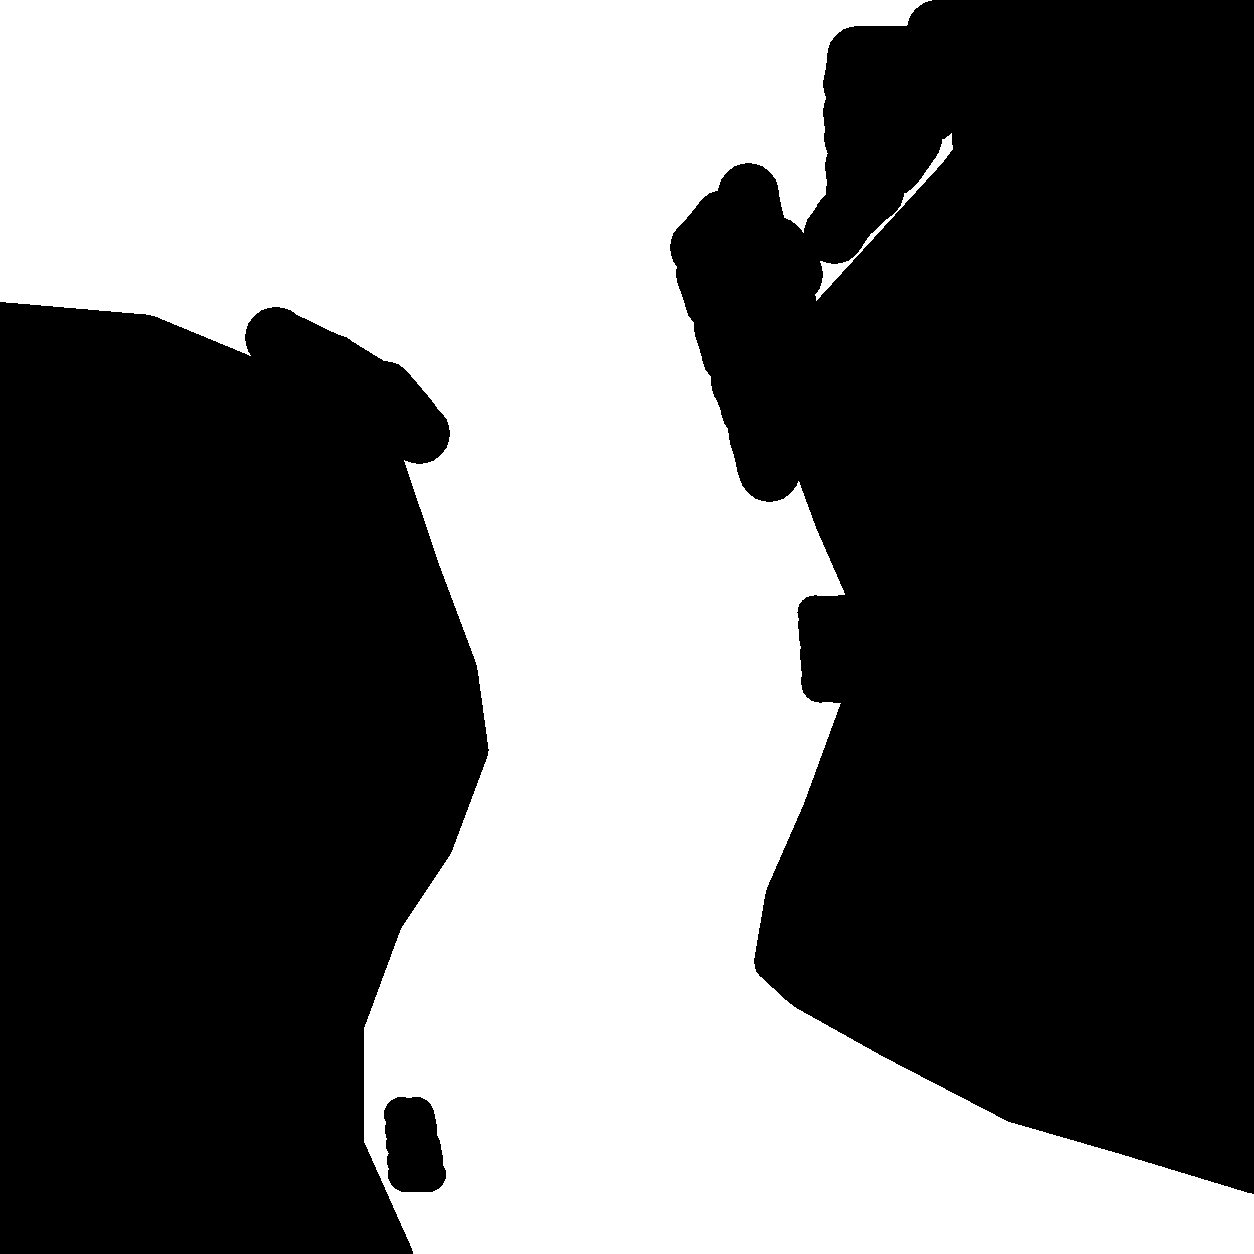
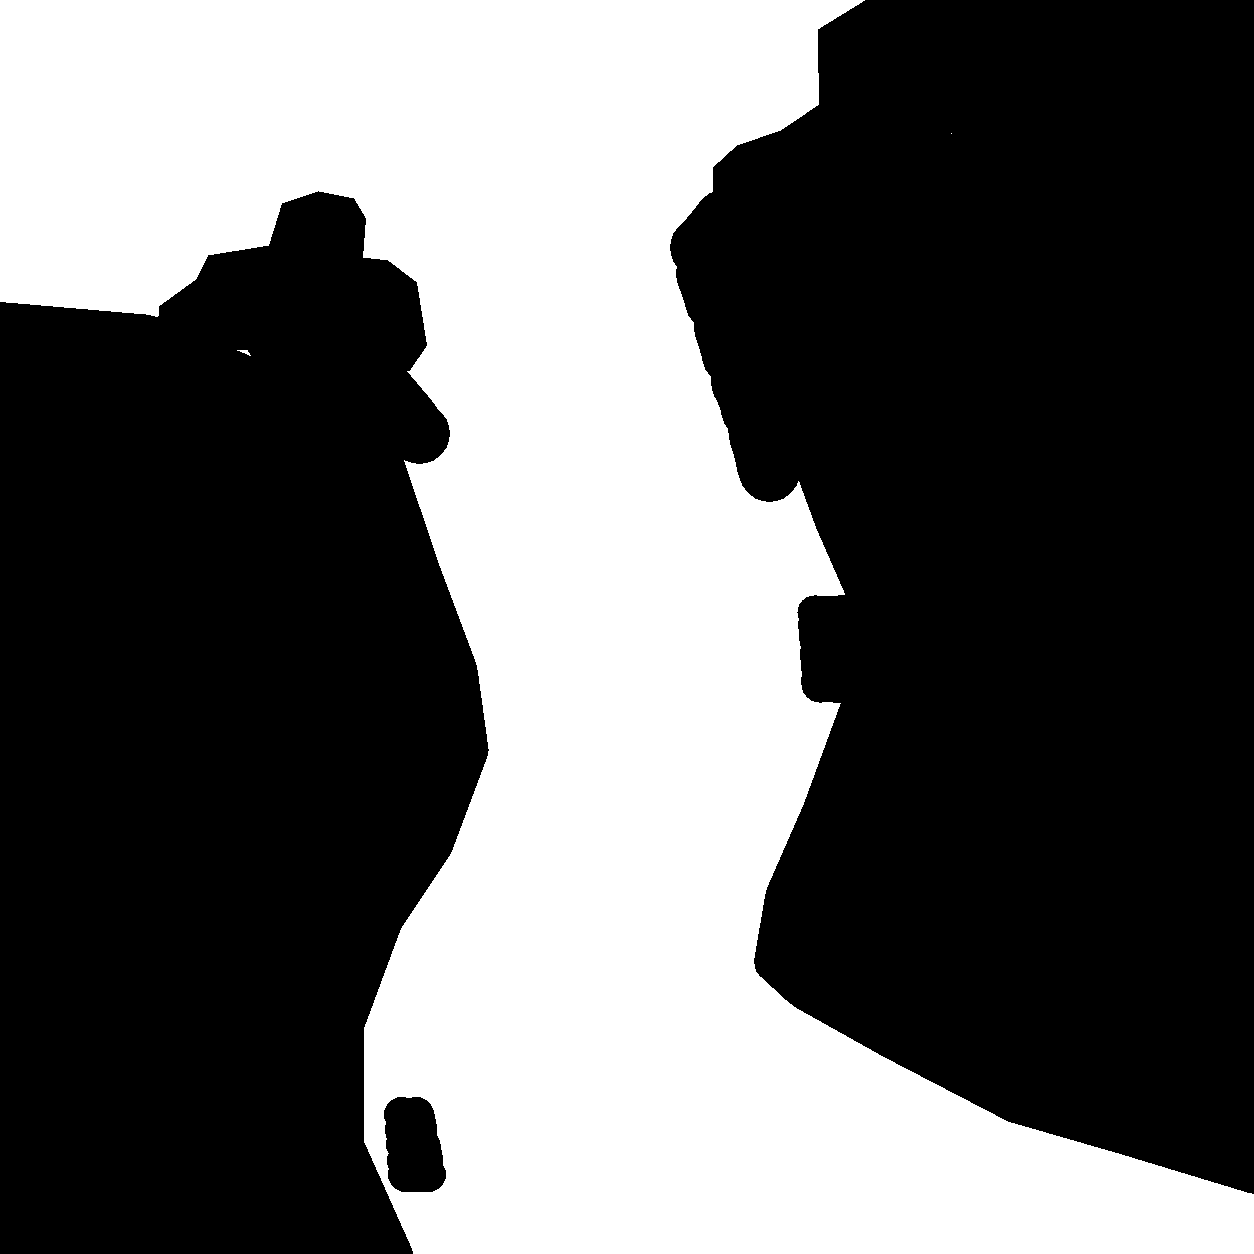
캠프 오솔길과 던전 계단의 이동 경계·소품 가림을 그림에 맞춤

diff --git a/core/src/test/java/com/yongsa/DungeonWalkabilityTest.java b/core/src/test/java/com/yongsa/DungeonWalkabilityTest.java
@@ -41,6 +41,42 @@ class DungeonWalkabilityTest {
         assertTrue(failures.isEmpty(),"Visible floor blocked: "+failures);
     }
 
+    @Test void paintedShouldersStayOpenAndStairFurnitureHasSolidFeet() {
+        var map=unlocked();
+        var hero=new com.yongsa.combat.HeroActor();
+        var trail=map.corridors.stream().filter(c->c.scene.id.equals("camp-trail")).findFirst().orElseThrow();
+        hero.x=trail.sceneX(210/480f);
+        hero.y=trail.sceneY(329/420f);
+        float startX=hero.x,startY=hero.y;
+        float shoulderX=trail.sceneX(100/480f),shoulderY=trail.sceneY(318/420f);
+        assertFalse(com.yongsa.combat.Physics.walk(map,hero,shoulderX-startX,shoulderY-startY,map.tileSize));
+        assertFalse(com.yongsa.combat.Physics.walk(map,hero,startX-hero.x,startY-hero.y,map.tileSize));
+        assertEquals(startX,hero.x,.03f);
+        assertEquals(startY,hero.y,.03f);
+
+        var mine=map.room("L7");
+        assertTrue(map.free(mine.sceneX(115/640f),mine.sceneY(149/360f),hero.hw,hero.hh),"Dirt by the winch");
+        var tower=map.room("T4");
+        assertTrue(map.free(tower.sceneX(145/640f),tower.sceneY(184/360f),hero.hw,hero.hh),"Gravel in front of ore tray");
+        assertFalse(map.free(tower.sceneX(142/640f),tower.sceneY(159/360f),hero.hw,hero.hh),"Ore tray base");
+
+        for(var joint:map.paintedJoints) {
+            switch(joint.id) {
+                case "exit-R1-R2", "exit-R3-R4", "entry-R5-R6" -> {
+                    assertTrue(map.free(joint.x(.50f),joint.y(.22f),hero.hw,hero.hh),joint.id+" stair");
+                    assertFalse(map.free(joint.x(167/512f),joint.y(137/512f),hero.hw,hero.hh),joint.id+" brazier");
+                    assertFalse(map.free(joint.x(.66f),joint.y(.19f),hero.hw,hero.hh),joint.id+" parapet");
+                }
+                case "entry-T2-T3", "entry-T3-T4", "entry-T7-T6" -> {
+                    float lampX=joint.id.equals("entry-T7-T6")?279/512f:233/512f;
+                    assertFalse(map.free(joint.x(lampX),joint.y(.15f),hero.hw,hero.hh),joint.id+" lamp");
+                    float landingX=joint.id.equals("entry-T7-T6")?.46f:.54f;
+                    assertTrue(map.free(joint.x(landingX),joint.y(.16f),hero.hw,hero.hh),joint.id+" landing");
+                }
+            }
+        }
+    }
+
     @Test void everyRoomFloorAndActiveArrivalRemainReachable() {
         var map=unlocked(); int checked=0;
         for(var room:map.rooms) {

diff --git a/core/src/main/java/com/yongsa/map/SceneLayerPainter.java b/core/src/main/java/com/yongsa/map/SceneLayerPainter.java
@@ -76,9 +76,9 @@ final class SceneLayerPainter implements Disposable {
             for(int y=0;y<h;y++)for(int x=0;x<w;x++) {
                 int rgba=source.getPixel(x,y);
                 if((rgba&255)==0)continue;
-                // Respect the ground compositor: never repaint another scene's floor
-                // or a feathered joint blend on top of actors.
-                if((p.corridor!=null&&(rgba&255)!=255)||!layout.owns(p,p.worldX((x+.5f)/w),p.worldY((y+.5f)/h),false)) {
+                // Keep the passage edge opacity already present in the cut. Discarding every
+                // partially transparent pixel slices canopies at the feather boundary.
+                if(!layout.owns(p,p.worldX((x+.5f)/w),p.worldY((y+.5f)/h),false)) {
                     source.drawPixel(x,y,0);continue;
                 }
                 x0=Math.min(x0,x);y0=Math.min(y0,y);x1=Math.max(x1,x+1);y1=Math.max(y1,y+1);

diff --git a/core/src/main/java/com/yongsa/map/PaintedJoints.java b/core/src/main/java/com/yongsa/map/PaintedJoints.java
@@ -67,8 +67,9 @@ final class PaintedJoints implements Disposable {
                 pixels.put(i,(byte)Math.round((pixels.get(i)&255)*j.alpha(j.x((x+.5f)/w),j.y((y+.5f)/h))));
             }
             p.texture=texture(src);
-            if(layerScenes.contains("joints/"+j.id))return;
+            boolean hasAuthoredLayers=layerScenes.contains("joints/"+j.id);
             for(var mask:j.foregrounds) {
+                if(hasAuthoredLayers && !mask.supplemental)continue;
                 int x0=(int)(mask.minX()*w),y0=(int)(mask.minY()*h);
                 int x1=Math.min(w,(int)Math.ceil(mask.maxX()*w)),y1=Math.min(h,(int)Math.ceil(mask.maxY()*h));
                 Pixmap cut=new Pixmap(x1-x0,y1-y0,Pixmap.Format.RGBA8888);

diff --git a/core/src/main/java/com/yongsa/map/SceneOcclusion.java b/core/src/main/java/com/yongsa/map/SceneOcclusion.java
@@ -11,6 +11,8 @@ public final class SceneOcclusion {
     public static final class Mask {
         public String id;
         public float depth;
+        /** Joint silhouette retained alongside separately authored object layers. */
+        public boolean supplemental;
         public float[] polygon;
         /** Region bounds stay in original image coordinates even when the room is mirrored. */
         public float minX() { float v=1; for(int i=0;i<polygon.length;i+=2)v=Math.min(v,polygon[i]); return v; }
